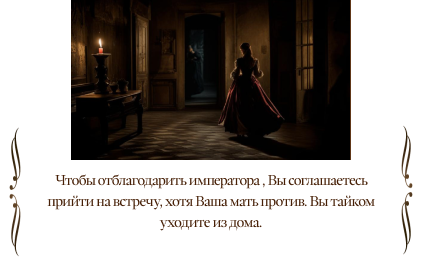
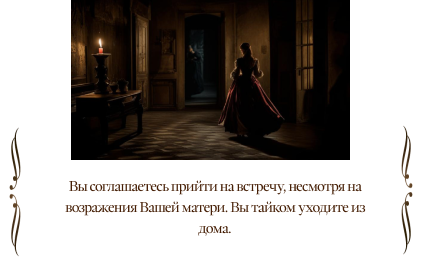
в некоторых вариантах ответов изменен текст, изменен текст записки, поменяны картинки

Changed region(s): [[0.0924, 0.6617, 0.8934, 0.9023]]

diff --git a/css/style.css b/css/style.css
@@ -587,6 +587,11 @@ header {
     top: 30px;
 }
 
+.word-Leo {
+    left: -200px;
+    top: 23px;
+}
+
 .word-Yakov {
     top: unset;
     height: 70px;
@@ -647,6 +652,7 @@ header {
 .word-Baldhoven2 {
     top: -100px;
     height: 100px;
+    left:-5px;
 }
 
 .word-Baldhoven3 {
@@ -1661,7 +1667,7 @@ i {
     letter-spacing: -0.7px;
     width: 356px;
     height: 42px;
-    bottom: 17%;
+    bottom: 14%;
     left: 8%;
 }
 
@@ -1672,7 +1678,7 @@ i {
     font-weight: 400;
     line-height: 150%; /* 21px */
     letter-spacing: -0.7px;
-    bottom: 17%;
+    bottom: 14%;
     left: 56%;
 }
 
